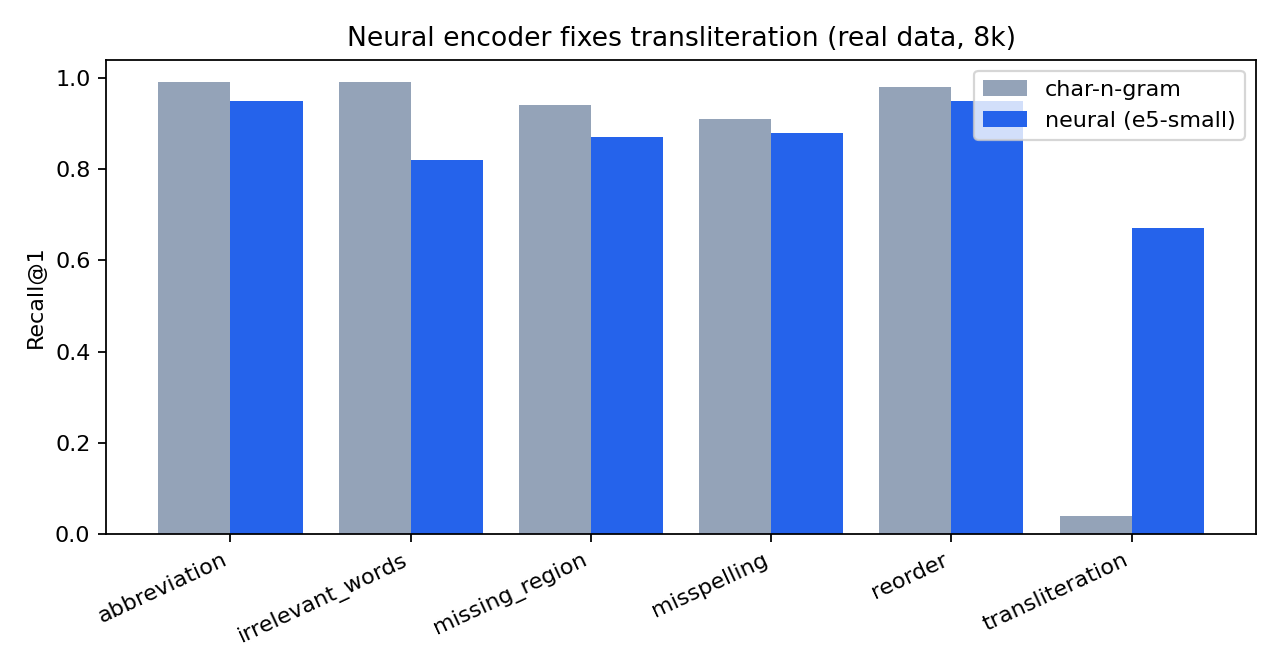
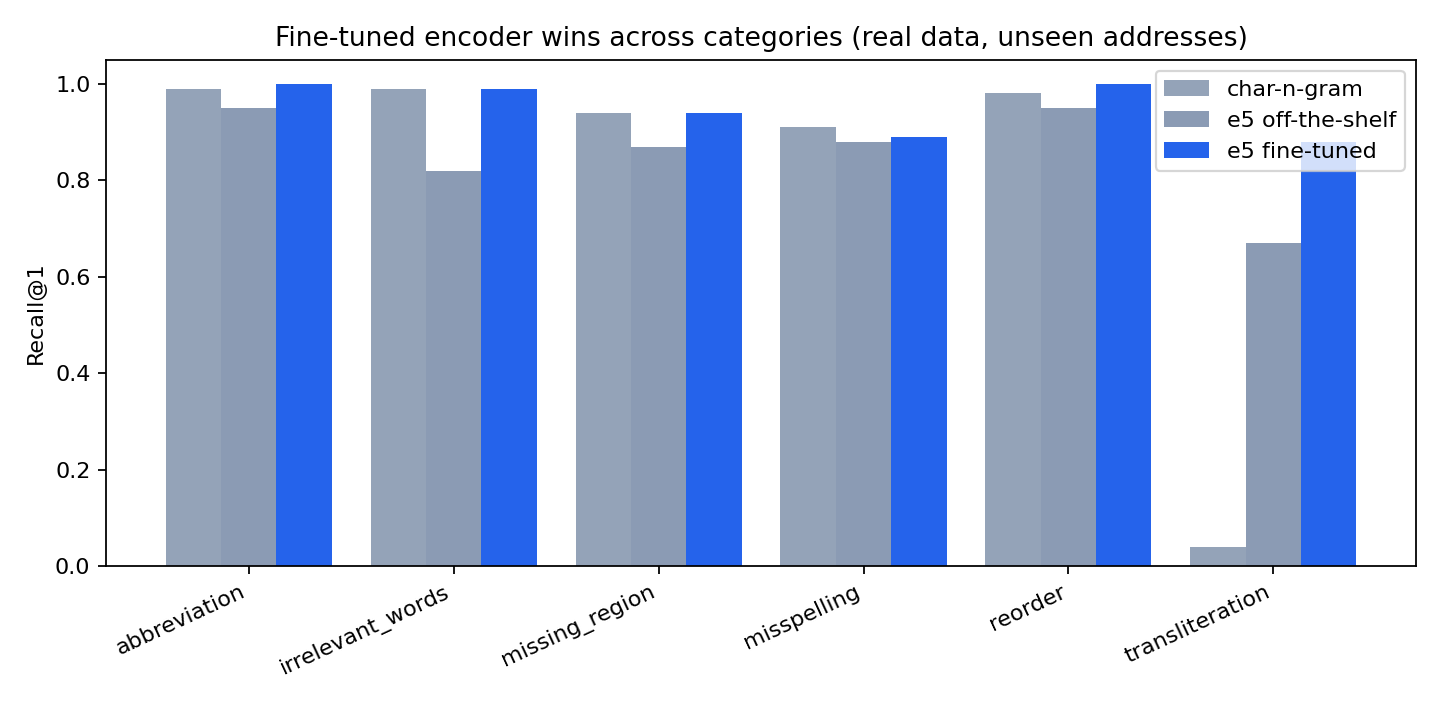
Iteration 3: fine-tuned e5 encoder (R@1 0.95, translit 0.04->0.88, beats off-the-shelf); 3-way figure + slides

Changed region(s): [[0.0, 0.0312, 1.0, 0.9688], [0.0625, 0.9062, 0.0938, 0.9375]]

diff --git a/presentation.html b/presentation.html
@@ -113,10 +113,12 @@ QUERY (онлайн, &lt;100 мс):
 
 <section class="slide">
   <div class="num">8</div>
-  <div class="q">Результаты — главный выигрыш</div>
-  <h2>Нейро-энкодер чинит транслитерацию</h2>
-  <img src="figures/neural_vs_char.png" alt="neural vs char">
-  <p><span class="big">transliteration: 0.04 → 0.67</span> · R@1 0.82→0.86 · Acc@500m 0.83→0.92 · вектор <strong>384-d</strong> (меньше char-n-gram 4096) и быстрее.</p>
+  <div class="q">Результаты — главный выигрыш (Итерация 3)</div>
+  <h2>Дообученный энкодер бьёт off-the-shelf</h2>
+  <img src="figures/neural_vs_char.png" alt="char vs off-the-shelf vs fine-tuned">
+  <p><span class="big">char-n-gram → off-the-shelf → дообученный</span></p>
+  <p>R@1 <strong>0.81 → 0.86 → 0.95</strong> · transliteration <strong>0.04 → 0.67 → 0.88</strong> · nDCG <strong>0.83 → 0.90 → 0.97</strong> · Acc@500m <strong>0.83 → 0.92 → 0.98</strong></p>
+  <p style="color:var(--muted)">Контрастив (InfoNCE) на парах «грязный↔канон»; обучен на <em>невиданных</em> адресах (строки 8000+), eval — на других. 30k пар, 2 мин на GPU.</p>
 </section>
 
 <section class="slide">
@@ -136,7 +138,7 @@ QUERY (онлайн, &lt;100 мс):
   <div class="num">10</div>
   <div class="q">Вопрос 5 — что эффективнее и почему</div>
   <h2>Рекомендуемая архитектура</h2>
-  <div class="flow">нейро multilingual-энкодер → HNSW  (основа: R@1 0.88, 384-d, p50 0.02 мс)
+  <div class="flow">ДООБУЧЕННЫЙ энкодер → HNSW      (основа: R@1 0.95, 384-d, p50 0.02 мс)
    + int8/PQ + exact re-rank      (память ×4–30 без потери качества)
    + нейро cross-encoder реранк   (только на shortlist, где помогает)</div>
   <ul>
@@ -175,8 +177,8 @@ QUERY (онлайн, &lt;100 мс):
   <div class="q">Итог</div>
   <h2>Что сделано и что дальше</h2>
   <ul>
-    <li><strong>Сделано:</strong> реальные данные OSM <strong>623k / 14 регионов</strong> (+координаты), 3 итерации, нейро-энкодер (транслит 0.04→0.67), Pareto индексов/квантизации, гибрид+реранк, гео-метрика, сервис (FastAPI+UI), воспроизводимо, в git.</li>
-    <li><strong>Дальше:</strong> дообучение энкодера + geo-голова (GPU), нейро cross-encoder реранк, замер на полной базе 623k.</li>
+    <li><strong>Сделано:</strong> реальные данные OSM <strong>623k / 14 регионов</strong> (+координаты), 3 итерации, <strong>дообученный энкодер (R@1 0.95, транслит 0.04→0.88)</strong>, Pareto индексов/квантизации, гибрид+реранк, гео-метрика, сервис (FastAPI+UI), воспроизводимо, в git.</li>
+    <li><strong>Дальше:</strong> geo-голова (координаты в базе есть), дистилляция в tiny для CPU, замер дообученной модели на полной базе 623k.</li>
   </ul>
   <p style="color:var(--muted)">Репозиторий: github.com/yathebest/project_dlc · демо: <code>uvicorn service.app:app</code></p>
 </section>

diff --git a/train_encoder.py b/train_encoder.py
@@ -1,84 +1,92 @@
 """Iteration 3 - fine-tune a domain encoder (headline "beyond baseline").
 
-Two objectives, AddrLLM-inspired:
-  (a) CONTRASTIVE  - pull dirty variants to their canonical address, push away
-      others (InfoNCE via in-batch negatives). Needs only text pairs.
-  (b) GEOCODING (optional, AddrLLM Fig.4) - auxiliary head predicting lat/lon so
-      embedding distance ~ geographic distance. Needs <address, lat/lon> pairs.
-  Then DISTILL the fine-tuned model into a tiny fast one (rubert-tiny) for CPU.
+Contrastive fine-tuning (InfoNCE via in-batch negatives, L6/L7): pull a dirty
+address variant to its canonical form, push away others. Pairs are generated
+from the AddrLLM noise taxonomy on REAL OSM addresses.
 
-Run (needs torch + sentence-transformers + a GPU is strongly recommended):
-    pip install sentence-transformers torch
-    python train_encoder.py --base deepvk/USER-bge-m3 --epochs 1
+To show generalization (not "teaching to the test"), training pairs are built
+from addresses OUTSIDE the held-out eval subset (rows >= --holdout).
 
-This trains part (a) on synthetic pairs generated from the same noise taxonomy.
-Part (b) and distillation are wired as documented extensions below.
+    python train_encoder.py --base intfloat/multilingual-e5-small \
+        --dataset data/canon.jsonl --pairs 30000 --epochs 1 --batch 64 \
+        --out models/addr-e5-ft
+    # then compare off-the-shelf vs fine-tuned on the 8k eval subset:
+    python run_baseline.py --embedder st --model intfloat/multilingual-e5-small \
+        --dataset data/canon_8k.jsonl --index hnsw            # baseline
+    python run_baseline.py --embedder st --model models/addr-e5-ft \
+        --dataset data/canon_8k.jsonl --index hnsw            # fine-tuned
+
+Geocoding-aware multi-task head (AddrLLM Fig.4) and distillation to a tiny model
+are wired as documented extensions at the bottom (need coords / a teacher pass).
 """
 import argparse
+import random
 import sys
 
 sys.path.insert(0, ".")
-from src.data import generate_synthetic, canonical_string
+from src.data import load_canon, generate_synthetic
 from src.noise import CATEGORIES, make_dirty
-import random
 
 
-def build_pairs(n=20000, seed=20260605):
+def build_pairs(canon, n, q_prefix, d_prefix, seed=20260605):
     """(dirty, canonical) positive pairs for contrastive fine-tuning."""
     rng = random.Random(seed)
-    canon = generate_synthetic(n)
+    sample = canon if len(canon) <= n else rng.sample(canon, n)
     pairs = []
-    for c in canon:
+    for c in sample:
         cat = rng.choice(CATEGORIES)
-        pairs.append((make_dirty(c, cat, rng), c["text"]))
-    return pairs, canon
-
-
-def train_contrastive(base, epochs, out_dir):
-    from sentence_transformers import (SentenceTransformer, InputExample,
-                                       losses)
-    from torch.utils.data import DataLoader
-
-    pairs, _ = build_pairs()
-    examples = [InputExample(texts=[q, d]) for q, d in pairs]
-    model = SentenceTransformer(base)
-    loader = DataLoader(examples, shuffle=True, batch_size=64)
-    # MultipleNegativesRankingLoss = InfoNCE with in-batch negatives (L6/L7)
-    loss = losses.MultipleNegativesRankingLoss(model)
-    model.fit(train_objectives=[(loader, loss)], epochs=epochs,
-              warmup_steps=100, show_progress_bar=True)
-    model.save(out_dir)
-    print(f"saved fine-tuned model -> {out_dir}")
-    return out_dir
-
-
-# ---------------------------------------------------------------------------
-# Extension (b): geocoding-aware multi-task head  (needs coordinates)
-# ---------------------------------------------------------------------------
-# Attach an FC head on top of the pooled embedding that regresses (lat, lon):
-#     h = encoder(address)            # [B, 768]
-#     coord = FC(h)                   # [B, 2]
-#     loss = contrastive(h) + λ * MSE(coord, true_latlon)
-# Data: join GAR addresses with OpenAddresses / OSM / Nominatim to get
-# <address, lat, lon>. After training, plot embedding-distance vs geo-distance
-# and report R^2 / t-SNE station separation, as in AddrLLM Fig.3-4.
-#
-# Extension (c): distillation to a tiny fast student (L7)
-# Teacher = fine-tuned model above; student = sergeyzh/rubert-tiny-retriever.
-# Use sentence_transformers.losses.MSELoss on teacher vs student embeddings,
-# or margin-MSE on (query, pos, neg) score gaps. Result: CPU-servable encoder.
-# ---------------------------------------------------------------------------
+        pairs.append((q_prefix + make_dirty(c, cat, rng), d_prefix + c["text"]))
+    return pairs
 
 
 def main():
     ap = argparse.ArgumentParser()
-    ap.add_argument("--base", default="deepvk/USER-bge-m3")
+    ap.add_argument("--base", default="intfloat/multilingual-e5-small")
+    ap.add_argument("--dataset", default=None, help="real jsonl base (else synthetic)")
+    ap.add_argument("--pairs", type=int, default=30000)
     ap.add_argument("--epochs", type=int, default=1)
-    ap.add_argument("--out", default="models/addr-encoder")
+    ap.add_argument("--batch", type=int, default=64)
+    ap.add_argument("--holdout", type=int, default=8000,
+                    help="first N rows are the eval subset -> excluded from training")
+    ap.add_argument("--out", default="models/addr-e5-ft")
     args = ap.parse_args()
-    train_contrastive(args.base, args.epochs, args.out)
-    print("Next: evaluate with  python run_baseline.py --embedder st --model", args.out)
 
+    import torch
+    from sentence_transformers import SentenceTransformer, InputExample, losses
+    from torch.utils.data import DataLoader
+
+    torch.manual_seed(20260605)
+    dev = "cuda" if torch.cuda.is_available() else "cpu"
+
+    canon = load_canon(args.dataset) if args.dataset else generate_synthetic(args.pairs + args.holdout)
+    train_pool = canon[args.holdout:] or canon        # unseen addresses
+    print(f"base={args.base} device={dev} | canon={len(canon)} train_pool={len(train_pool)}")
+
+    # e5 models expect "query:" / "passage:" prefixes; keep them consistent with eval
+    e5 = "e5" in args.base.lower()
+    qp, dp = ("query: ", "passage: ") if e5 else ("", "")
+    pairs = build_pairs(train_pool, args.pairs, qp, dp)
+    print(f"training pairs: {len(pairs)}  (e.g. {pairs[0][0]!r} -> {pairs[0][1]!r})")
+
+    model = SentenceTransformer(args.base, device=dev)
+    model.max_seq_length = 64                          # addresses are short -> fast
+    loader = DataLoader([InputExample(texts=[q, d]) for q, d in pairs],
+                        shuffle=True, batch_size=args.batch)
+    loss = losses.MultipleNegativesRankingLoss(model)  # InfoNCE, in-batch negatives
+    model.fit(train_objectives=[(loader, loss)], epochs=args.epochs,
+              warmup_steps=int(0.1 * len(loader)), show_progress_bar=True)
+    model.save(args.out)
+    print(f"saved fine-tuned model -> {args.out}")
+
+
+# --- Extension (b): geocoding-aware head (needs coords, in our OSM base) ---------
+# Multi-task: loss = contrastive + λ·MSE(FC(embedding), (lat,lon)). Attach a small
+# nn.Linear(dim, 2) head; train with a custom loop mixing MultipleNegativesRanking
+# and coordinate MSE. Afterwards plot embedding-distance vs geo-distance (R^2) and
+# t-SNE by city, as in AddrLLM Fig.3-4.
+# --- Extension (c): distillation -> sergeyzh/rubert-tiny-retriever (L7) -----------
+# Teacher = model above; student = tiny; losses.MSELoss on teacher/student
+# embeddings for CPU-servable inference.
 
 if __name__ == "__main__":
     main()

diff --git a/make_plots.py b/make_plots.py
@@ -87,16 +87,19 @@ def fig_hybrid():
 def fig_neural():
     ch = load("results_char8k.json")["metrics"]["per_category_recall_at_1"]
     st = load("results_st8k.json")["metrics"]["per_category_recall_at_1"]
+    ft = load("results_st8k_ft.json")["metrics"]["per_category_recall_at_1"]
     cats = sorted(ch)
-    fig, ax = plt.subplots(figsize=(8, 4.2))
-    x = range(len(cats))
-    ax.bar([i - 0.2 for i in x], [ch[c] for c in cats], width=0.4, color=GREY,
+    fig, ax = plt.subplots(figsize=(9, 4.4))
+    x = list(range(len(cats)))
+    ax.bar([i - 0.27 for i in x], [ch[c] for c in cats], 0.27, color=GREY,
            label="char-n-gram")
-    ax.bar([i + 0.2 for i in x], [st[c] for c in cats], width=0.4, color=BLUE,
-           label="neural (e5-small)")
-    ax.set_xticks(list(x)); ax.set_xticklabels(cats, rotation=25, ha="right")
+    ax.bar(x, [st[c] for c in cats], 0.27, color="#8b9bb4",
+           label="e5 off-the-shelf")
+    ax.bar([i + 0.27 for i in x], [ft[c] for c in cats], 0.27, color=BLUE,
+           label="e5 fine-tuned")
+    ax.set_xticks(x); ax.set_xticklabels(cats, rotation=25, ha="right")
     ax.set_ylabel("Recall@1"); ax.legend()
-    ax.set_title("Neural encoder fixes transliteration (real data, 8k)")
+    ax.set_title("Fine-tuned encoder wins across categories (real data, unseen addresses)")
     fig.tight_layout(); fig.savefig("figures/neural_vs_char.png", dpi=160)
     plt.close(fig)
 

diff --git a/README.md b/README.md
@@ -62,9 +62,12 @@ quality runs below use CPU-feasible 8k/80k subsets of this base.
   (×110 faster) → IVF-PQ 0.54 / **10 MB** (×130 smaller); add exact re-rank to
   recover IVF-PQ recall (L9).
 - **Iter 1 shrink** (method): int8 ≈free ×4 · PCA-256 ×16 · binary ×32.
-- **Iter 3 neural encoder** (multilingual-e5-small, 8k, HNSW): R@1 **0.86**,
-  R@5 **0.93**, **Acc@500m 0.92**, **transliteration 0.04 → 0.67**, only 384-dim
-  (smaller than char-n-gram) and p50 0.02 ms. **Biggest single win.**
+- **Iter 3a neural encoder** (multilingual-e5-small off-the-shelf, 8k, HNSW):
+  R@1 **0.86**, R@5 **0.93**, Acc@500m 0.92, **transliteration 0.04 → 0.67**, 384-dim.
+- **Iter 3b fine-tuned encoder** (contrastive on dirty↔canonical, e5-small, GPU
+  ~2 min, evaluated on **unseen** addresses): R@1 **0.95**, R@5 **0.99**, nDCG
+  **0.97**, Acc@500m **0.98**, **transliteration 0.88** — beats off-the-shelf in
+  every category. **Headline result** (`python train_encoder.py`).
 - **Hybrid caveat (real finding):** neural dense alone (R@1 **0.88**) *beats* naive
   neural+BM25 RRF (0.83) here — when one retriever dominates, fusing a weaker one
   adds noise (L8); and the *lexical* reranker hurts transliteration (0.62→0.10),